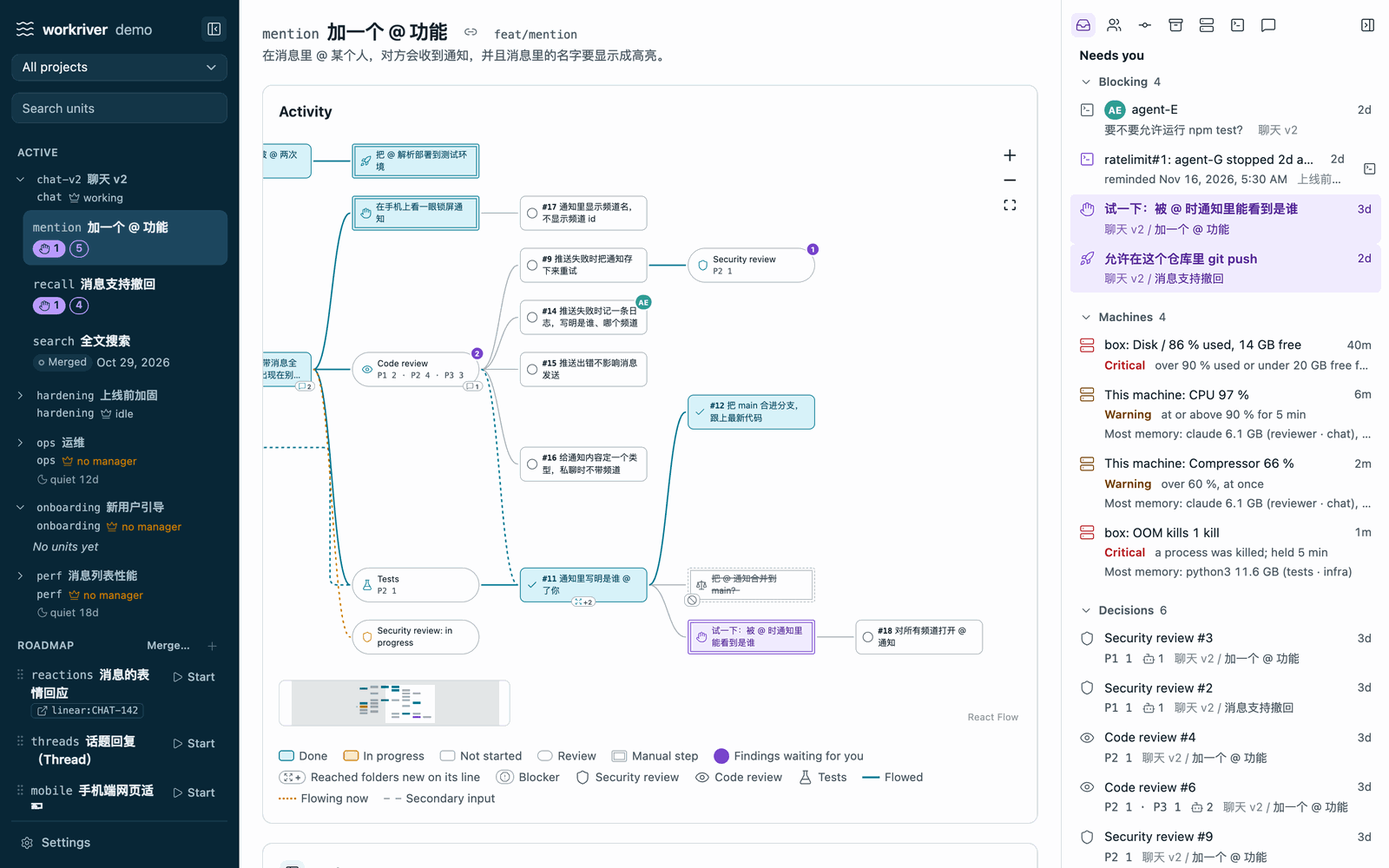
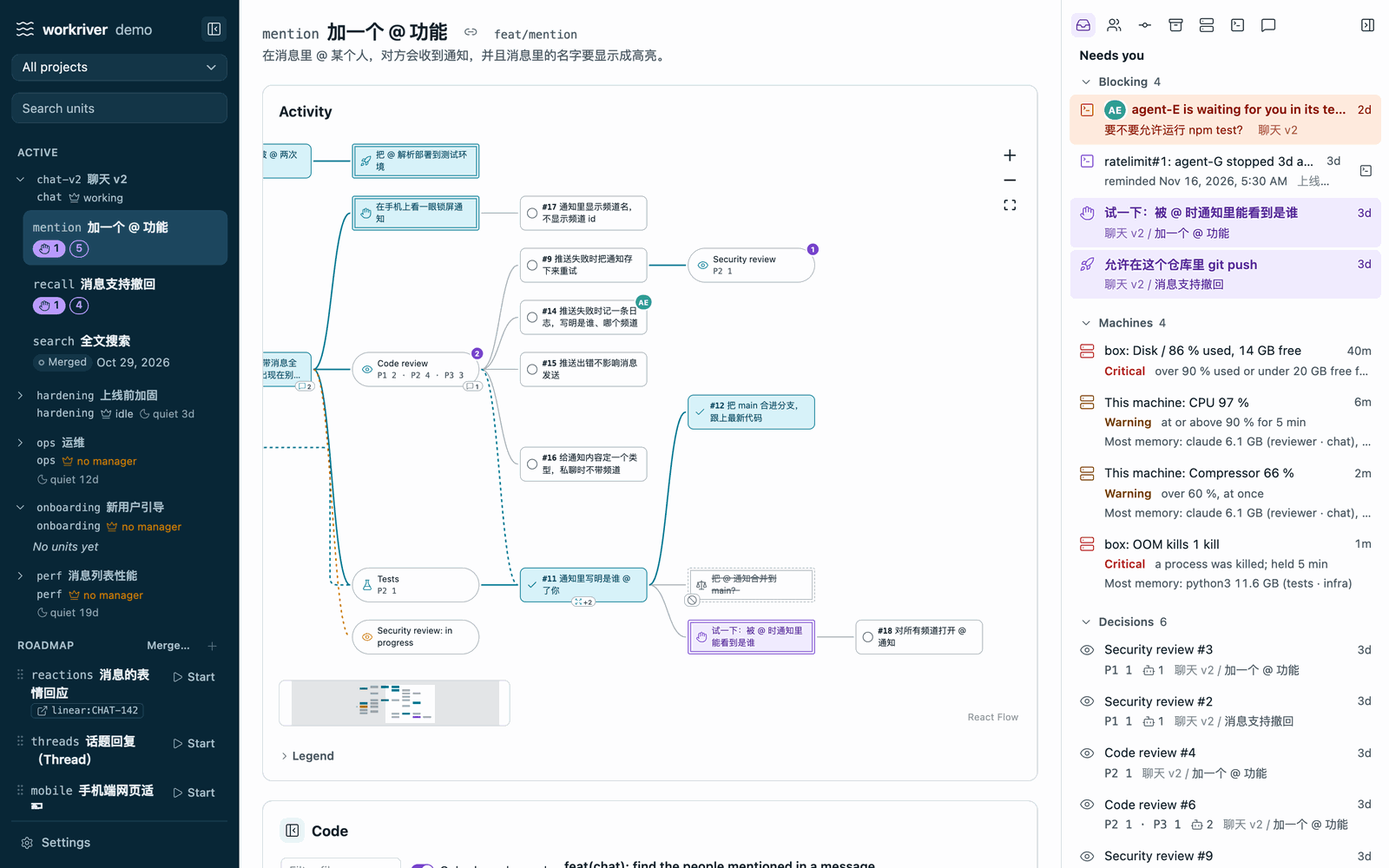
A design's gate and its revisions are found through reviews only, as rules of the core
Answers u7#7's accepted findings.

- P2-1: a design's gate is the decide gate reached from it through reviews
  only; a later question to merge is not it (tested open and refused).
- P3-1: a design is revised only by a design task answering a finding of the
  design, its review or its gate; the revising task is shown it as "the design
  you revise"; until the revision is delivered the old one stays, "being
  revised in …".
- P3-2: State::before, designs_asked, design_gate and revised_by in core with a
  core test per case; show.rs keeps the wording.
- P3-3: overview pictures retaken (en, zh-CN).
- P3-4: one example in design-gate (design, review, gate, build), the same
  words in the messages after a refused design gate, the recipe's line.

Task: u7#9

diff --git a/crates/workriver/src/show.rs b/crates/workriver/src/show.rs
@@ -110,25 +110,12 @@ pub struct EarlierShow {
     /// The reader is a review that follows this design directly: it is what it reviews.
     #[serde(default, skip_serializing_if = "std::ops::Not::not")]
     pub under_review: bool,
-}
-
-/// The designs a task comes after most closely: through its inputs, no further back than
-/// the first design on each way.
-fn designs_before(state: &State, owner: &str, n: u32) -> Vec<u32> {
-    let (mut seen, mut found) = (std::collections::BTreeSet::new(), vec![]);
-    let mut next: Vec<u32> = state.task(owner, n).map(|t| t.inputs.iter().filter_map(|i| i.from.parse().ok()).collect()).unwrap_or_default();
-    while let Some(k) = next.pop() {
-        let Ok(b) = state.task(owner, k) else { continue };
-        if !seen.insert(k) {
-            continue;
-        }
-        if b.kind == core::TaskKind::Design {
-            found.push(k);
-        } else {
-            next.extend(b.inputs.iter().filter_map(|i| i.from.parse::<u32>().ok()));
-        }
-    }
-    found
+    /// The reader is the design task that revises this design.
+    #[serde(default, skip_serializing_if = "std::ops::Not::not")]
+    pub revises: bool,
+    /// A design task not delivered yet revises it: that task.
+    #[serde(default, skip_serializing_if = "Option::is_none")]
+    pub revised_in: Option<String>,
 }
 
 #[derive(Serialize, Deserialize, Clone, Debug, PartialEq)]
@@ -269,35 +256,22 @@ pub fn task(state: &State, ws: &serde_json::Value, unit: &str, n: u32, file: &dy
             })
         })
         .collect();
-    // The delivered design and research tasks it comes after, however many tasks between,
-    // oldest first. A blind reader's state holds no other task, so it gets none.
-    let mut before = std::collections::BTreeSet::new();
-    let mut next: Vec<u32> = t.inputs.iter().filter_map(|i| i.from.parse().ok()).collect();
-    while let Some(k) = next.pop() {
-        if let (true, Ok(b)) = (before.insert(k), state.task(unit, k)) {
-            next.extend(b.inputs.iter().filter_map(|i| i.from.parse::<u32>().ok()));
+    // What was designed and found before it. Which design is current and which gate asks
+    // about it are the model's rules (`State::revised_by`, `State::design_gate`); here only
+    // what is shown. A blind reader's state holds no other task or unit, so it gets none.
+    let said = |owner: &str, b: &Task| -> Option<EarlierShow> {
+        if b.done.is_none() || b.dropped.is_some() {
+            return None;
         }
-    }
-    // A design that answers a finding revises the design that finding was about: the one
-    // the finding's task (a gate, a review) comes after, or is. Only the newest is shown.
-    let revised: Vec<(String, u32)> = state
-        .units
-        .iter()
-        .flat_map(|x| x.tasks.iter().filter(|b| b.kind == core::TaskKind::Design && b.dropped.is_none()).flat_map(|b| b.causes.iter().map(|c| (c.unit.clone().unwrap_or_else(|| x.id.clone()), c.task))))
-        .flat_map(|(owner, k)| {
-            let own = state.task(&owner, k).is_ok_and(|f| f.kind == core::TaskKind::Design);
-            let hit = if own { vec![k] } else { designs_before(state, &owner, k) };
-            hit.into_iter().map(move |d| (owner.clone(), d))
-        })
-        .collect();
-    // The decide gate that asks about a design: the latest one coming after it.
-    let gate_of = |owner: &str, d: u32| {
-        let gates = state.tasks_of(owner).into_iter().flatten().filter(|g| g.gate == Some(core::GateKind::Decide) && g.dropped.is_none());
-        gates.filter(|g| designs_before(state, owner, g.n).contains(&d)).max_by_key(|g| g.n)
-    };
-    let said = |owner: &str, b: &Task| {
-        let gate = (b.kind == core::TaskKind::Design).then(|| gate_of(owner, b.n)).flatten();
-        EarlierShow {
+        let design = b.kind == core::TaskKind::Design;
+        let revisions = if design { state.revised_by(owner, b.n) } else { vec![] };
+        let revises = revisions.iter().any(|(o, r)| o == unit && r.n == n);
+        // A delivered revision takes its place, except for the task that revises it.
+        if !revises && revisions.iter().any(|(_, r)| r.done.is_some()) {
+            return None;
+        }
+        let gate = design.then(|| state.design_gate(owner, b.n)).flatten();
+        Some(EarlierShow {
             from: format!("{owner}#{}", b.n),
             kind: name(&b.kind),
             title: b.title.clone(),
@@ -306,16 +280,17 @@ pub fn task(state: &State, ws: &serde_json::Value, unit: &str, n: u32, file: &dy
             files: files(&b.attachments),
             gate: gate.map(|g| format!("{owner}#{}", g.n)),
             confirmed: gate.and_then(|g| g.result).map(|r| r == core::GateResult::Done),
-            under_review: t.kind == core::TaskKind::Review && b.kind == core::TaskKind::Design && owner == unit && t.inputs.iter().any(|i| i.from == b.n.to_string()),
-        }
+            under_review: design && t.kind == core::TaskKind::Review && owner == unit && t.inputs.iter().any(|i| i.from == b.n.to_string()),
+            revises,
+            revised_in: revisions.iter().find(|(o, r)| !(o == unit && r.n == n)).filter(|_| !revises).map(|(o, r)| format!("{o}#{}", r.n)),
+        })
     };
-    let shown_one = |owner: &str, b: &&Task| b.done.is_some() && b.dropped.is_none() && !revised.iter().any(|(o, k)| o == owner && *k == b.n);
-    // First what was designed for the intent as a whole, in its research units: no input
-    // reaches those from another unit. (A blind reader's state holds no other unit.)
+    // First what was designed for the intent as a whole, in its research units (no input
+    // reaches those from another unit), then the design and research tasks it comes after.
     let wide = state.units.iter().filter(|x| x.kind == core::UnitKind::Research && x.id != unit && x.intent == intent_id);
     let earlier = wide
-        .flat_map(|x| x.tasks.iter().filter(|b| shown_one(&x.id, b)).filter(|b| b.kind == core::TaskKind::Design).map(|b| said(&x.id, b)))
-        .chain(before.iter().filter_map(|k| state.task(unit, *k).ok()).filter(|b| shown_one(unit, b)).filter(|b| matches!(b.kind, core::TaskKind::Design | core::TaskKind::Research)).map(|b| said(unit, b)))
+        .flat_map(|x| x.tasks.iter().filter(|b| b.kind == core::TaskKind::Design).filter_map(|b| said(&x.id, b)))
+        .chain(state.before(unit, n).iter().filter_map(|k| state.task(unit, *k).ok()).filter(|b| matches!(b.kind, core::TaskKind::Design | core::TaskKind::Research)).filter_map(|b| said(unit, b)))
         .collect();
     // Commits come from git, through the snapshot the page reads too.
     let shown = ws["intents"].as_array().into_iter().flatten().flat_map(|i| i["units"].as_array().into_iter().flatten()).find(|x| x["id"] == unit);
@@ -489,7 +464,13 @@ pub fn text(s: &TaskShow) -> String {
         let _ = writeln!(out, "Designed and found before this task (each design says whether the user confirmed it; if one seems wrong, see `workriver guide how contract`):");
         for d in &s.earlier {
             let title = if d.title.is_empty() { String::new() } else { format!(" \"{}\"", d.title) };
-            let review = if d.under_review { ", the design under review" } else { "" };
+            let review = if d.under_review {
+                ", the design under review"
+            } else if d.revises {
+                ", the design you revise"
+            } else {
+                ""
+            };
             let by = if d.kind == "research" { "found" } else { "designed" };
             let gate = match (&d.gate, d.confirmed) {
                 (Some(g), Some(true)) => format!(", confirmed by the user in {g}"),
@@ -497,6 +478,7 @@ pub fn text(s: &TaskShow) -> String {
                 (Some(g), None) => format!(", not confirmed yet (gate {g})"),
                 (None, _) => String::new(),
             };
+            let gate = gate + &d.revised_in.as_ref().map(|r| format!(", being revised in {r}")).unwrap_or_default();
             let mut b = String::new();
             block(&mut b, &format!("from {} ({}{title}{review}), {by} by {}{gate}", d.from, d.kind, d.delivered_by), if d.note.is_empty() { "(no note)" } else { &d.note });
             if !d.files.is_empty() {

diff --git a/crates/workriver-core/src/tests.rs b/crates/workriver-core/src/tests.rs
@@ -47,6 +47,62 @@ fn an_architecture_review_round_trips() {
     assert_eq!(name(&Reviewer::ArchitectureReview), "architecture-review");
 }
 
+/// What a task comes after, which gate asks about a design, and which design revises it.
+#[test]
+fn designs_their_gates_and_their_revisions() {
+    let (_dir, mut s) = temp_store();
+    fn put(s: &mut Store, actor: &str, v: serde_json::Value) {
+        s.append(&actor.into(), body(v)).unwrap();
+    }
+    let task = |kind: &str, after: &[&str], more: serde_json::Value| {
+        let mut b = json!({"unit": "u1", "kind": kind, "title": kind, "inputs": after.iter().map(|f| json!({"from": f})).collect::<Vec<_>>()});
+        b.as_object_mut().unwrap().extend(more.as_object().unwrap().clone());
+        json!({"kind": "task.created", "body": b})
+    };
+    let found = |n: u32| json!({"kind": "task.delivered", "body": {"unit": "u1", "task": n, "findings": [{"severity": "P2", "problem": "x", "impact": "y", "where": ["a"]}]}});
+    put(&mut s, "boss", json!({"kind": "intent.created", "body": {"title": "Chat"}}));
+    put(&mut s, "boss", json!({"kind": "unit.created", "body": {"intent": "i1", "title": "Mentions", "repo": "/r", "branch": "feat/m", "base": "main"}}));
+    put(&mut s, "boss", task("design", &["start"], json!({}))); // 1: an older design, unrelated
+    put(&mut s, "boss", task("design", &["1"], json!({}))); // 2
+    put(&mut s, "boss", task("review", &["2"], json!({"reviewer": "architecture-review"}))); // 3: of the design
+    put(&mut s, "boss", task("gate", &["3"], json!({"gate": "decide"}))); // 4: confirm design 2
+    put(&mut s, "boss", task("implement", &["4"], json!({}))); // 5
+    put(&mut s, "boss", task("review", &["5"], json!({}))); // 6: of the code
+    put(&mut s, "boss", task("gate", &["6"], json!({"gate": "decide", "title": "Merge?"}))); // 7
+    put(&mut s, "rev", found(3));
+    put(&mut s, "rev", found(6));
+    put(&mut s, "user", json!({"kind": "finding.decided", "body": {"unit": "u1", "task": 3, "finding": "P2-1", "decision": "accept"}}));
+    put(&mut s, "user", json!({"kind": "finding.decided", "body": {"unit": "u1", "task": 6, "finding": "P2-1", "decision": "accept"}}));
+    let st = |s: &Store| s.state().clone();
+    let state = st(&s);
+    assert_eq!((state.before("u1", 5), state.before("u1", 1), state.before("u1", 99)), (vec![1, 2, 3, 4], vec![], vec![]));
+    // Through reviews only; not through implementing, a gate, or another design.
+    assert_eq!((state.designs_asked("u1", 4), state.designs_asked("u1", 3), state.designs_asked("u1", 2)), (vec![2], vec![2], vec![1]));
+    assert!(state.designs_asked("u1", 7).is_empty() && state.designs_asked("u1", 6).is_empty() && state.designs_asked("u1", 5).is_empty());
+    // A later question to merge is not the design's gate; a design nobody was asked about has none.
+    assert_eq!((state.design_gate("u1", 2).map(|g| g.n), state.design_gate("u1", 1).map(|g| g.n)), (Some(4), None));
+    assert!(state.revised_by("u1", 2).is_empty());
+
+    // A design answering a finding about the code revises nothing.
+    put(&mut s, "boss", task("design", &[], json!({"causes": [{"task": 6, "findings": ["P2-1"]}]}))); // 8
+    assert!(st(&s).revised_by("u1", 2).is_empty() && st(&s).revised_by("u1", 1).is_empty());
+    // One answering the design's review, its gate, or a finding of the design itself does;
+    // not the design before that one, and not once it is dropped.
+    put(&mut s, "boss", task("design", &[], json!({"causes": [{"task": 3, "findings": ["P2-1"]}]}))); // 9
+    let state = st(&s);
+    assert_eq!(state.revised_by("u1", 2).iter().map(|(o, t)| (o.as_str(), t.n)).collect::<Vec<_>>(), [("u1", 9)]);
+    assert!(state.revised_by("u1", 1).is_empty());
+    put(&mut s, "user", json!({"kind": "gate.submitted", "body": {"unit": "u1", "task": 4, "result": "problem", "findings": [{"severity": "P2", "problem": "No"}]}}));
+    put(&mut s, "user", json!({"kind": "finding.decided", "body": {"unit": "u1", "task": 4, "finding": "P2-1", "decision": "accept"}}));
+    put(&mut s, "boss", task("design", &[], json!({"causes": [{"task": 4, "findings": ["P2-1"]}]}))); // 10
+    put(&mut s, "user", json!({"kind": "task.dropped", "body": {"unit": "u1", "task": 9, "reason": "one is enough"}}));
+    assert_eq!(st(&s).revised_by("u1", 2).iter().map(|(_, t)| t.n).collect::<Vec<_>>(), [10]);
+    // Asked again after the revision: the new design's gate is its own, the old one keeps its.
+    put(&mut s, "boss", task("gate", &["10"], json!({"gate": "decide"}))); // 11
+    let state = st(&s);
+    assert_eq!((state.design_gate("u1", 10).map(|g| g.n), state.design_gate("u1", 2).map(|g| g.n)), (Some(11), Some(4)));
+}
+
 #[test]
 fn rules_assign_ids_and_accept_good_input() {
     let (_dir, mut s) = temp_store();

diff --git a/crates/workriver/src/tests.rs b/crates/workriver/src/tests.rs
@@ -2067,8 +2067,12 @@ fn a_task_shown_in_full() {
     assert!(show("u1#7").contains("designed by rev, not confirmed by the user in u1#9:\n"));
     user.append("", "finding.decided", json!({ "unit": "u1", "task": 9, "finding": "P2-1", "decision": "accept" })).unwrap();
     boss.append("", "task.created", json!({ "unit": "u1", "kind": "design", "title": "Tokens in the keychain", "causes": [{ "task": 9, "findings": ["P2-1"] }], "agent": "s-rev" })).unwrap();
-    assert_eq!(from("u1#7"), ["u2#2"], "the refused design is no longer shown");
+    // Until the revision is delivered the old design stays, said to be under revision; the
+    // task that revises it is shown it as such, also afterwards.
+    assert!(show("u1#7").contains("designed by rev, not confirmed by the user in u1#9, being revised in u1#10:\n"), "{}", show("u1#7"));
+    assert!(show("u1#10").contains("  from u1#6 (design \"Where tokens live\", the design you revise), designed by rev, not confirmed by the user in u1#9:\n"), "{}", show("u1#10"));
     rev.append("", "task.delivered", json!({ "unit": "u1", "task": 10, "note": "Tokens go in the keychain." })).unwrap();
+    assert_eq!((from("u1#7"), from("u1#10")), (vec!["u2#2".to_string()], vec!["u2#2".to_string(), "u1#6".into()]), "the refused design is no longer shown but to its revision");
     boss.append("", "task.created", json!({ "unit": "u1", "kind": "gate", "gate": "decide", "title": "Confirm again", "inputs": [{ "from": "10" }] })).unwrap();
     boss.append("", "task.created", json!({ "unit": "u1", "kind": "implement", "title": "Use the keychain", "inputs": [{ "from": "11" }], "agent": "s-fix" })).unwrap();
     boss.append("", "task.created", json!({ "unit": "u1", "kind": "review", "reviewer": "architecture-review", "inputs": [{ "from": "10" }], "agent": "s-rev" })).unwrap();
@@ -2076,9 +2080,15 @@ fn a_task_shown_in_full() {
     assert!(show("u1#13").contains("  from u1#10 (design \"Tokens in the keychain\", the design under review), designed by rev, not confirmed yet (gate u1#11): Tokens go in the keychain.\n"), "{}", show("u1#13"));
     user.append("", "gate.submitted", json!({ "unit": "u1", "task": 11, "result": "done" })).unwrap();
     assert!(show("u1#12").contains("  from u1#10 (design \"Tokens in the keychain\"), designed by rev, confirmed by the user in u1#11: Tokens go in the keychain.\n"), "{}", show("u1#12"));
+    // A later question to merge is not the design's gate: open or refused, the design stays confirmed.
+    boss.append("", "task.created", json!({ "unit": "u1", "kind": "gate", "gate": "decide", "title": "Merge u1 into main?", "inputs": [{ "from": "12" }] })).unwrap();
+    assert!(show("u1#12").contains("designed by rev, confirmed by the user in u1#11: "), "{}", show("u1#12"));
+    fix.append("", "task.delivered", json!({ "unit": "u1", "task": 12, "note": "In the keychain" })).unwrap();
+    user.append("", "gate.submitted", json!({ "unit": "u1", "task": 14, "result": "problem", "findings": [{ "severity": "P2", "problem": "Not yet" }] })).unwrap();
+    assert!(show("u1#12").contains("designed by rev, confirmed by the user in u1#11: "), "{}", show("u1#12"));
     // A blind task after the same designs is told nothing of them.
     boss.append("", "task.created", json!({ "unit": "u1", "kind": "review", "inputs": [{ "from": "12" }], "agent": "s-sec", "blind": true, "text": "Review the move" })).unwrap();
-    let own = sec.get("/api/task?task=u1%2314").unwrap();
+    let own = sec.get("/api/task?task=u1%2315").unwrap();
     assert!(own.get("earlier").is_none() && !crate::show::text(&serde_json::from_value(own).unwrap()).contains("Tokens live"));
     // Nobody reads as nobody.
     assert_eq!(http(port, "GET", "/api/task?task=u1%233", &[], None).0, 401);

diff --git a/crates/workriver-core/src/model.rs b/crates/workriver-core/src/model.rs
@@ -1519,6 +1519,59 @@ impl State {
         }
     }
 
+    /// The tasks task `n` comes after through its inputs, however many between, oldest first.
+    pub fn before(&self, owner: &str, n: u32) -> Vec<u32> {
+        let mut seen = std::collections::BTreeSet::new();
+        let inputs = |t: &Task| t.inputs.iter().filter_map(|i| i.from.parse::<u32>().ok()).collect::<Vec<_>>();
+        let mut next = self.task(owner, n).map(inputs).unwrap_or_default();
+        while let Some(k) = next.pop() {
+            if let (true, Ok(b)) = (seen.insert(k), self.task(owner, k)) {
+                next.extend(inputs(b));
+            }
+        }
+        seen.into_iter().collect()
+    }
+
+    /// The designs a gate or a review is about: the design tasks it follows directly or
+    /// through reviews only (design, its reviews, the gate). Not through implementing or
+    /// another gate: a question to merge, asked after the work, is about no design.
+    pub fn designs_asked(&self, owner: &str, n: u32) -> Vec<u32> {
+        let mut found = std::collections::BTreeSet::new();
+        self.before_through(owner, n, &mut found);
+        found.into_iter().collect()
+    }
+
+    fn before_through(&self, owner: &str, n: u32, found: &mut std::collections::BTreeSet<u32>) {
+        let Ok(t) = self.task(owner, n) else { return };
+        for k in t.inputs.iter().filter_map(|i| i.from.parse::<u32>().ok()) {
+            match self.task(owner, k).map(|b| b.kind) {
+                Ok(TaskKind::Design) => {
+                    found.insert(k);
+                }
+                Ok(TaskKind::Review) if k < n => self.before_through(owner, k, found),
+                _ => {}
+            }
+        }
+    }
+
+    /// The decide gate that asks the user to confirm design `d` (see `designs_asked`); the
+    /// latest when it was asked again. None: nobody was asked.
+    pub fn design_gate(&self, owner: &str, d: u32) -> Option<&Task> {
+        let gates = self.tasks_of(owner)?.iter().filter(|g| g.gate == Some(GateKind::Decide) && g.dropped.is_none());
+        gates.filter(|g| self.designs_asked(owner, g.n).contains(&d)).max_by_key(|g| g.n)
+    }
+
+    /// The design tasks that revise design `d`, with their owner: those not dropped that
+    /// answer a finding of the design itself or of a gate or review about it (see
+    /// `designs_asked`). A design answering a finding about the code built from it does not.
+    pub fn revised_by(&self, owner: &str, d: u32) -> Vec<(String, &Task)> {
+        let hit = |at: &str, t: &Task| {
+            t.kind == TaskKind::Design && t.dropped.is_none() && t.causes.iter().any(|c| c.unit.as_deref().unwrap_or(at) == owner && c.task != 0 && (c.task == d || self.designs_asked(owner, c.task).contains(&d)))
+        };
+        let units = self.units.iter().flat_map(|u| u.tasks.iter().filter(|t| hit(&u.id, t)).map(|t| (u.id.clone(), t)));
+        units.chain(self.intents.iter().flat_map(|i| i.tasks.iter().filter(|t| hit(&i.id, t)).map(|t| (i.id.clone(), t)))).collect()
+    }
+
     /// A unit, or an intent seen as a unit for its intent-level tasks (no branch; its
     /// project folder as the repository).
     pub fn unit_or_intent(&self, id: &str) -> Option<Unit> {

diff --git a/crates/workriver/src/deliver.rs b/crates/workriver/src/deliver.rs
@@ -464,7 +464,7 @@ fn decision_message(state: &State, unit: &str, n: u32, finding: &str, decision: 
     m.own.push(match decision {
         // From a design decision: the design is done again, and confirmed again.
         Decision::Accept | Decision::Revise if design => format!(
-            "Next: revise the design: `workriver task add {unit} --kind design --title \"<revised design>\" --cause {n}:{finding} --agent <agent>`, then a new `--kind gate --gate decide` after it; the implementation hangs after the new gate, not after {unit}#{n}."
+            "Next: revise the design: `workriver task add {unit} --kind design --title \"<revised design>\" --cause {n}:{finding} --agent <agent>`, then, if the design sets the shape of the work, its architecture review (`--kind review --reviewer architecture-review`), and a new `--kind gate --gate decide` after that; the implementation hangs after the new gate, not after {unit}#{n} (`workriver guide how design-gate`)."
         ),
         Decision::Accept | Decision::Revise => format!(
             "Next: hand out work for it, e.g. `workriver task add {unit} --title \"<what to do>\" --cause {n}:{finding} --agent <agent>`, then give that task to an agent with the worker instructions (`workriver guide worker`)."
@@ -499,7 +499,7 @@ fn gate_message(state: &State, unit: &str, n: u32) -> Option<Msg> {
         m.own.push(format!("Findings: {}.", ids.join(", ")));
         m.own.push(if decide {
             format!(
-                "The user decides on each finding; for each accepted or revised one, a revised design task (`--kind design --cause {n}:<id>`) and a new decide gate after it; the implementation hangs after the new gate, not after {unit}#{n}."
+                "The user decides on each finding; for each accepted or revised one, a revised design task (`--kind design --cause {n}:<id>`), its architecture review if the design sets the shape of the work, and a new decide gate after that; the implementation hangs after the new gate, not after {unit}#{n}."
             )
         } else {
             format!(

diff --git a/skills/workriver-howto/references/design-gate.md b/skills/workriver-howto/references/design-gate.md
@@ -4,8 +4,14 @@
 What is already decided needs no design task: cite the decision in the task's `--text`.
 
     workriver task add u1 --kind design --title "Design the mention picker" --agent designer
-    workriver task add u1 --kind gate --gate decide --title "Confirm the design" --after 1
-    workriver task add u1 --title "Build the picker" --after 2 --agent builder
+    workriver task add u1 --kind review --reviewer architecture-review --after 1 --agent arch
+    workriver task add u1 --kind gate --gate decide --title "Confirm the design" --after 2
+    workriver task add u1 --title "Build the picker" --after 3 --agent builder
+
+The review (task 2) is for a design that sets the shape of the work: the gate comes after
+it, so the user is not asked to confirm what the review is about to change
+(`architecture-review`). A design that does not set the shape skips the review: the gate
+`--after 1`, the build after the gate.
 
 The designer delivers the design as its note (`workriver task deliver u1#1 --note "..."`).
 The user discusses it in the browser and confirms at the gate. Every task after it in the
@@ -13,22 +19,17 @@ unit reads that note and its files in `workriver task show` ("Designed and found
 this task", with whether the user confirmed it) and follows it; reviews check the work
 against it.
 
-A design that sets the shape of the work gets an architecture review, and the gate comes
-after the review, so the user is not asked to confirm what the review is about to change
-(`architecture-review`):
-
-    workriver task add u1 --kind review --reviewer architecture-review --after 1 --agent arch
-    workriver task add u1 --kind gate --gate decide --title "Confirm the design" --after 2   # 2: the review
-
 A design for the whole intent (across units or repositories) goes in a research unit
 (`units`): `workriver unit add --kind research --title "…"`, then the design task and the
 gate there, the implementation in the code units after it. Once delivered, that design is
-shown to every task of the intent's other units the same way, confirmed or not yet. Once confirmed, put the decision
-on the intent's page: `workriver intent set i3 --add-note "Design: … (u2#2)"`.
+shown to every task of the intent's other units the same way, confirmed or not yet. Once
+confirmed, put the decision on the intent's page: `workriver intent set i3 --add-note "Design: … (u2#2)"`.
 
 **You will see:** "The user confirmed the design in gate …", the decision quoted: hand out
 the implementation. Or "did not confirm …": for each finding accepted or revised, a new
-design task `--cause 2:<id>`, a new decide gate after it, the implementation after the
-**new** gate. The new design takes the old one's place in `task show`.
+design task `--cause 3:<id>`, its architecture review if the design sets the shape of the
+work, a new decide gate after that, the implementation after the **new** gate. The revising
+task is shown the old design as "the design you revise"; once it is delivered it takes the
+old one's place in `task show` (until then the old one reads "being revised in …").
 
 **Refusals:** "a design task delivers its design as the note".

diff --git a/skills/workriver-howto/CHANGES.md b/skills/workriver-howto/CHANGES.md
@@ -24,8 +24,11 @@ Newest first. A manager that was already running reads this once after an update
   the whole intent). A design says whether the user confirmed it ("confirmed by the user in
   u1#2", "not confirmed yet (gate u1#2)", "not confirmed by the user in u1#2"); research
   reads "found by"; a review right after a design is told it is "the design under review".
-  A design revised by a later design task (`--cause` on its gate's or review's finding) is
-  no longer shown: only the newest, once delivered. If a design seems wrong: `contract`.
+  A design's gate is the decide gate reached from it through reviews only, so a later
+  question to merge is not it. A design task that answers a finding (`--cause`) of the
+  design, its review or its gate revises it: it is shown the old one as "the design you
+  revise", and once delivered takes its place (until then the old one reads "being revised
+  in u1#5"). A design answering a finding about the code revises nothing. If a design seems wrong: `contract`.
   `--json`: `earlier`. A blind task is shown none of it until it delivers. (`design-gate`)
 
 ## 2026-11-18

diff --git a/skills/workriver-howto/references/architecture-review.md b/skills/workriver-howto/references/architecture-review.md
@@ -8,8 +8,8 @@ review like those (findings, decisions, blind or not).
     workriver task add u1 --kind review --reviewer architecture-review --after 1 --agent arch --text "The design of u1#1 against CLAUDE.md"
     workriver task add u1 --kind review --reviewer architecture-review --after 3 --agent arch --text "How u1#3 is organized, against CLAUDE.md and the design u1#1"
 
-A design's decide gate comes **after** its architecture review (and after the revised design
-of a later round), never beside it: the user confirms what the review has been through.
+A design's decide gate comes **after** its architecture review (in a later round: after the
+review of the revised design), never beside it: the user confirms what the review has been through.
 
     workriver task add u1 --kind gate --gate decide --title "Confirm the design" --after 2   # 2: the review of design 1
 
